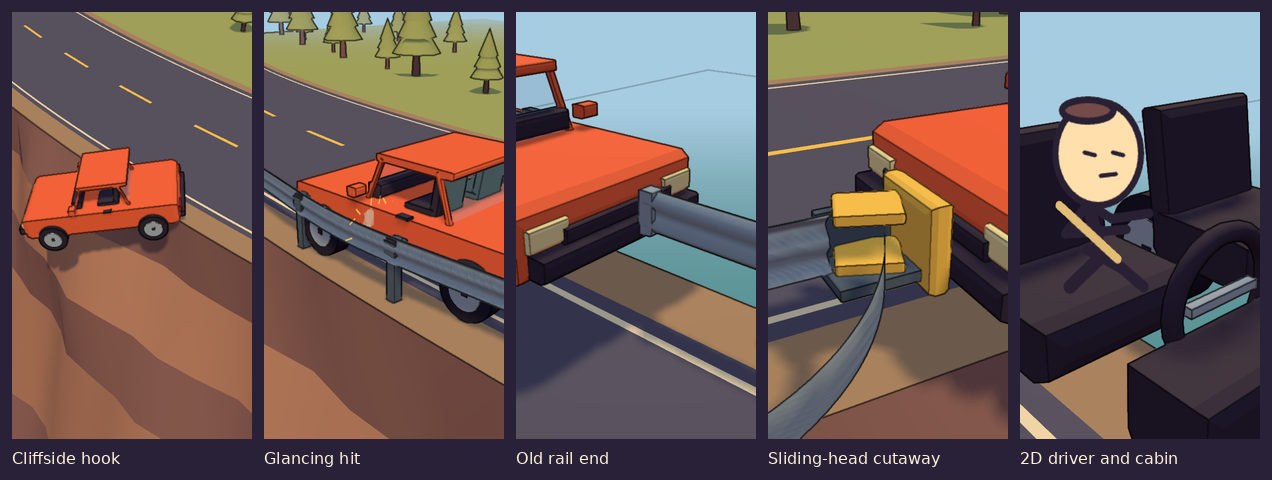
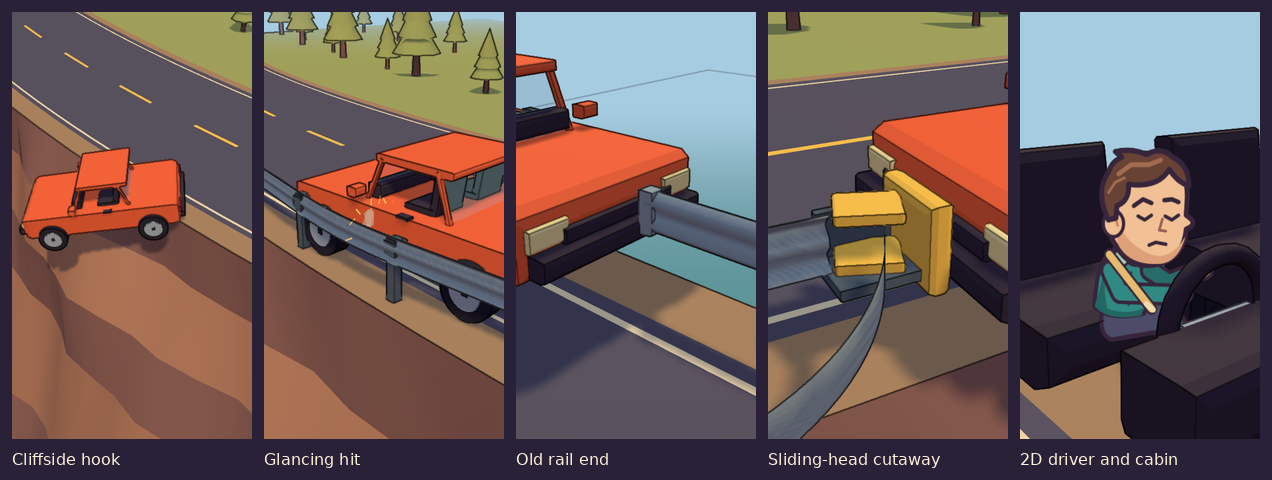
Redesign guardrail driver and verify window framing

diff --git a/videos/guardrail-crumple/assets/FirstStills.tsx b/videos/guardrail-crumple/assets/FirstStills.tsx
@@ -6,7 +6,7 @@ import {InkPass} from '../../../templates/bridge/ink';
 import {createCar, createCliffRoad, createDischargedSteel, createGuardrail} from './models.mjs';
 import {createDriver, createImpactEffect} from './cards.mjs';
 
-export const FIRST_STILLS_COUNT = 5;
+export const FIRST_STILLS_COUNT = 7;
 
 export function FirstStills() {
   const canvas = useRef<HTMLCanvasElement>(null);
@@ -76,12 +76,24 @@ export function FirstStills() {
         driver.setPose('peek');
         aim([5.65, 2.05, 4.35], [3, .56, 3]);
         break;
-      default:
+      case 4:
         rail.root.visible = false;
         car.exterior.visible = false;
         car.root.position.set(3.12, .01, .92);
         driver.setPose('brace', true);
-        aim([1.81, 1.77, 2.05], [2.8, 1.17, .92]);
+        aim([1.81, 1.63, 2.15], [2.72, 1.23, 1]);
+        break;
+      case 5:
+        rail.root.visible = false;
+        car.root.position.set(0, .01, 7);
+        car.steering.rotation.z = -.32;
+        aim([-1.15, 1.45, 11.1], [-.36, 1.13, 7.43]);
+        break;
+      default:
+        rail.root.visible = false;
+        car.root.position.set(0, .01, 7);
+        car.steering.rotation.z = -.32;
+        aim([-3.3, 1.39, 8.1], [-.42, 1.13, 7.15]);
     }
 
     camera.updateMatrixWorld();

diff --git a/videos/guardrail-crumple/ASSET-MANIFEST.md b/videos/guardrail-crumple/ASSET-MANIFEST.md
@@ -8,7 +8,7 @@ Coordinates are in approximate meters, Y up. Road grade is Y=0. Traffic travels 
 |---|---|---|---|
 | 1–10 | Cliff bend, road markings, gravel shoulder, layered rock wall, river and trees | [models.mjs](assets/models.mjs), `createCliffRoad()`, `roadCenter(z)` | Origin on the approach centerline. Six-meter road, 14-meter drop. Use background fog to soften the far end. |
 | 1, 3, 5–6, 8, 10 | Compact car and cabin | [models.mjs](assets/models.mjs), `createCar()` | Root at ground beneath the car center, nose +Z. Wheels spin on local X, front pivots steer on Y, bumper group can yaw or retract. Exterior can be hidden for cabin framing. Cabin has seats, dash, steering wheel and belt. |
-| 1, 3, 5–6, 8, 10 | 2D stick driver | [cards.mjs](assets/cards.mjs), `createDriver()` | Attach card to car interior at its supplied offset. Call `faceCamera(camera)` after setting the shot camera. Poses are `steer`, `brace`, and `peek`; use the card belt for the impact close-up. Card on NOINK layer 3. |
+| 1, 3, 5–6, 8, 10 | 2D toon driver | [cards.mjs](assets/cards.mjs), `createDriver()` | Attach card to car interior at its supplied offset. Call `faceCamera(camera)` after setting the shot camera. Poses are `steer`, `brace`, and `peek`; use the card belt for the impact close-up. Keep the face inside the window opening from driving cameras. Card on NOINK layer 3. |
 | 2–5 | Corrugated beam, post spacers and old terminal | [models.mjs](assets/models.mjs), `createGuardrail()` | Root at leading edge. Beam center Y=0.68. Use `setTerminal({modern: false})`; apply `setBeam({flex, contact})` afterward for the side shot. Posts are separate children for the assembly beat. |
 | 7–10 | Energy-absorbing impact head, housing and cutaway guides | [models.mjs](assets/models.mjs), `createGuardrail()` | Call `setTerminal({travel, open})` with travel in meters. Switch to open for shot 9. The input end of the beam advances with the impact head. Keep the bumper in contact with the front face throughout the travel. |
 | 9–10 | Flattened steel strip | [models.mjs](assets/models.mjs), `createDischargedSteel()` | Parent to the head during the cutaway. Set length from the same travel value. The ribbon exits toward the field side and curls downward. Treat its curve as art direction, and lock its final pose for the stopped shot. |

diff --git a/videos/guardrail-crumple/CODEX-HANDOFF.md b/videos/guardrail-crumple/CODEX-HANDOFF.md
@@ -1,8 +1,8 @@
 # Guardrail asset handoff
 
-Use the [Remotion first stills](previews/remotion-first-stills.png) for visual review. The five views cover the cliff hook, side hit, old rail end, extrusion cutaway and 2D driver. The earlier [asset contact sheet](previews/asset-contact-sheet.png) shows the initial model pass with simplified lighting.
+Use the [Remotion first stills](previews/remotion-first-stills.png) for visual review. The five views cover the cliff hook, side hit, old rail end, extrusion cutaway and 2D driver. The [driver review sheet](previews/driver-window-review.png) shows the redesigned driver in the cabin and through the windshield and driver-side window. Use those exterior views as visibility and framing references for the driving animation. The earlier [asset contact sheet](previews/asset-contact-sheet.png) shows the initial model pass with simplified lighting.
 
-The first-stills composition is `GuardrailFirstStills`. With the existing Remotion runtime dependencies available to the entry point, register [review-entry.tsx](assets/review-entry.tsx) or import [FirstStills](assets/FirstStills.tsx) into the runtime. Render frames 0–4 at 405×720. The reviewed frames rendered in Remotion 4.0.544 with Three.js 0.170, software WebGL and the shared bridge ink pass.
+The first-stills composition is `GuardrailFirstStills`. With the existing Remotion runtime dependencies available to the entry point, register [review-entry.tsx](assets/review-entry.tsx) or import [FirstStills](assets/FirstStills.tsx) into the runtime. Render frames 0–6 at 405×720. Frames 5–6 are the windshield and driver-side window checks. The reviewed frames rendered in Remotion 4.0.544 with Three.js 0.170, software WebGL and the shared bridge ink pass.
 
 Geometry validation covered the neutral wheel-ground contact, steering controls, road and cliff normals, terminal switching, local beam flex, terminal travel, intake advancement, strip activation and finite mesh coordinates. Visual review of the first render showed the strip overlapping the bumper. The revised strip exits on the field side, and the revised cutaway was rendered and inspected.
 

diff --git a/videos/guardrail-crumple/CLAUDE-PROMPT.md b/videos/guardrail-crumple/CLAUDE-PROMPT.md
@@ -2,7 +2,7 @@
 
 Read [the story](STORY.md), [the narration](SCRIPT.md), and [the timed shot list](SHOTLIST.md). Use [Niagara Falls](../niagara-barrel/CLAUDE-PROMPT.md) as the production reference and follow the [repo rendering guide](../../SKILL.md) and [style bible](../../references/STYLE_BIBLE.md).
 
-Keep the driver a flat, expressive 2D stick character. Build the cliff, road, car, and guardrails in 3D with dark toon outlines and shaded surfaces. Reuse the same car and bend across the three setups. Match the replay angles so the viewer can immediately spot what changed. Use the existing Three.js/Remotion pipeline and narrator.
+Keep the driver a fully drawn 2D toon character at the detail level of Annie in Niagara. Preserve the swept hair, shaped face, collared teal jacket and distinct steering, bracing and peek expressions. Show his face and upper body through the windshield or driver-side window while the car is moving. Use the two driving views in the first-stills sheet as framing references. Build the cliff, road, car, and guardrails in 3D with dark toon outlines and shaded surfaces. Reuse the same car and bend across the three setups. Match the replay angles so the viewer can immediately spot what changed. Use the existing Three.js/Remotion pipeline and narrator.
 
 ## Animation and rigging
 

diff --git a/videos/guardrail-crumple/SHOTLIST.md b/videos/guardrail-crumple/SHOTLIST.md
@@ -14,3 +14,5 @@
 | 8 | 0:32–0:37 | Replay the head-on hit. Track beside the bumper as it pushes the head down the beam. Keep the fixed posts in view so the movement is clear. | “When the bumper hits it, the head slides down the rail.” |
 | 9 | 0:37–0:43 | Cut away part of the head. In one continuous shot, show the wavy beam feeding in, getting squeezed flat, and curling out sideways as a strip. | “The wavy steel goes in one side, gets squeezed flat, and curls out the other.” |
 | 10 | 0:43–0:49 | Pull wide while the car is still moving. Let it slow to a stop with the strip of steel beside it. The driver opens one eye. Cut there. | “It takes energy to bend all that steel. That gives the car more distance to slow down before it stops.” |
+
+In shot 3, start on the driver-side window while the car is moving, then cut to the rail-side angle for contact and flex. In shot 5, establish the driver through the windshield on approach before cutting to bumper height for impact. Use the [Remotion driver review](previews/driver-window-review.png) for window framing.
